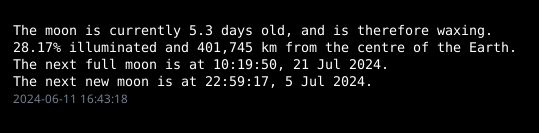
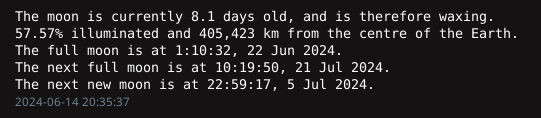
moon-phase changes, added next and nextest moon phases

Changed region(s): [[0.0, 0.0763, 0.9796, 0.7881], [0.0297, 0.8136, 0.2375, 0.9153]]

diff --git a/conky_moon_phase/README.md b/conky_moon_phase/README.md
@@ -30,9 +30,12 @@ echo 'The moon is currently ' . $age . ' days old, and is therefore ' . $stage .
 echo PHP_EOL;
 echo '' . $illuminationPercentage . '% illuminated and ' . $distance . ' km from the centre of the Earth. ';
 echo PHP_EOL;
+echo 'The full moon is at ' . $fullMoon . '. ';
+echo PHP_EOL;
 echo 'The next full moon is at ' . $nextFullMoon . '. ';
 echo PHP_EOL;
 echo 'The next new moon is at ' . $next . '. ';
+
 ?>
 
 ```
